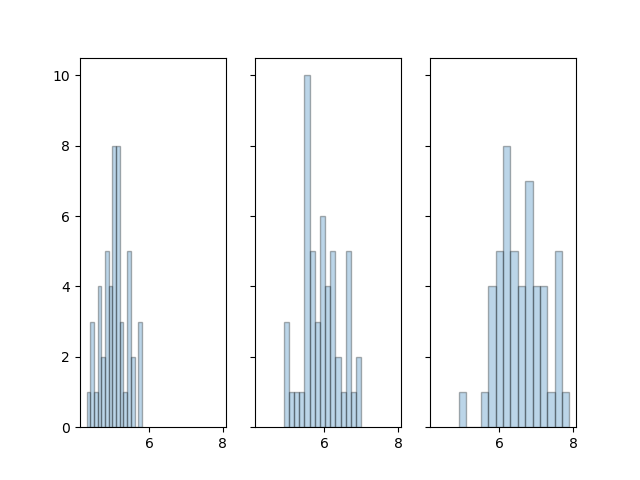
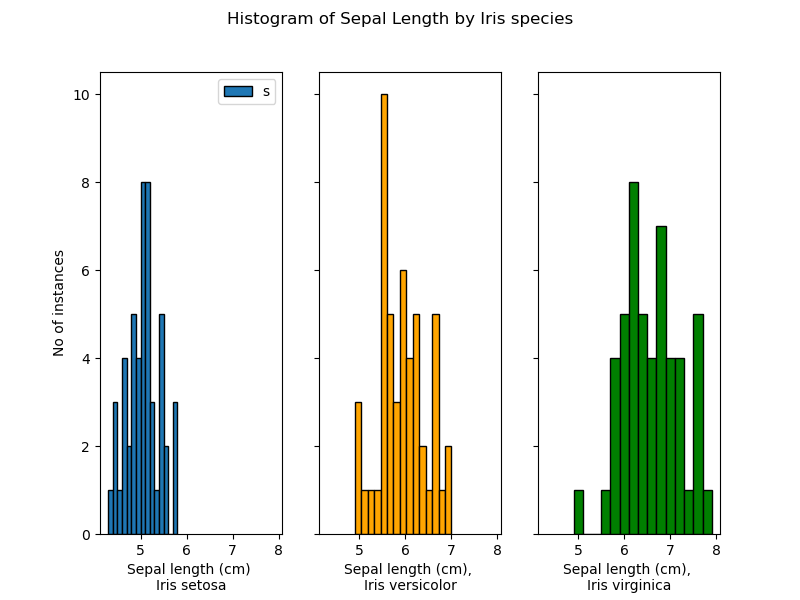
adding title, labelling axis

diff --git a/analysis.py b/analysis.py
@@ -41,16 +41,20 @@ print(f'Summary statistics for Iris virginica are: \n{virginica.describe()}')
 print()
 
 # Histogram of Sepal Length by species. 
-fig, ax = plt.subplots(1, 3, sharex= True, sharey= True)
-ax[0].hist(setosa['sepal_length_cm'], label = 'Iris setosa', edgecolor = 'black', alpha = 0.3, bins = 15)
-ax[1].hist(versicolor['sepal_length_cm'], label = 'Iris versicolor', edgecolor = 'black', alpha = 0.3, bins = 15)
-ax[2].hist(virginica['sepal_length_cm'], label = 'Iris virginica', edgecolor = 'black', alpha = 0.3, bins = 15)
-#ax.suptitle('Histogram of sepal length for Iris species')
-#ax.set_xlabel('Sepal length (cm)')
-#ax.set_ylabel('No of occurrances')
-#ax.legend()
+fig, ax = plt.subplots(1, 3, sharex= True, sharey= True, figsize = (8, 6))
+ax[0].hist(setosa['sepal_length_cm'], edgecolor = 'black', alpha = 1.0, bins = 15)
+ax[1].hist(versicolor['sepal_length_cm'], label = 'Iris versicolor', color = 'orange', edgecolor = 'black', alpha = 1.0, bins = 15)
+ax[2].hist(virginica['sepal_length_cm'], label = 'Iris virginica', color = 'green', edgecolor = 'black', alpha = 1.0, bins = 15)
+
+ax[0].set_xlabel('Sepal length (cm) \nIris setosa')
+ax[1].set_xlabel('Sepal length (cm), \nIris versicolor')
+ax[2].set_xlabel('Sepal length (cm), \nIris virginica')
+ax[0].set_ylabel('No of instances')
+
+fig.suptitle('Histogram of Sepal Length by Iris species')
+ax[0].legend('setosa')
 plt.savefig('sepal_length.png')
-plt.show()
+#plt.show()
 
 def iris_hist(**kwargs):
     '''A function that accepts user inputs to plot a histogram for the iris data set'''
